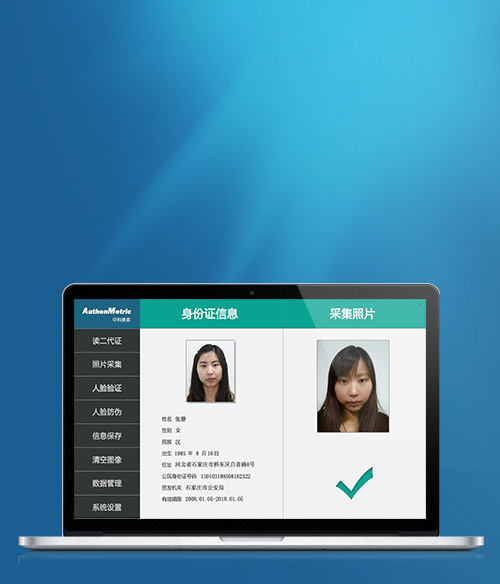
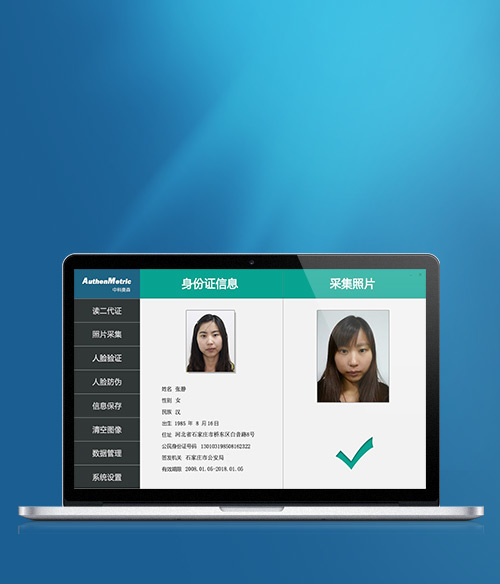
更新资源 微调

Changed region(s): [[0.03, 0.4315, 0.99, 0.9555]]

diff --git a/assets/style/index-page.css b/assets/style/index-page.css
@@ -66,7 +66,7 @@ section#cover {
   section#cover .cover-text-right{
     position: absolute;
     right: 10%;
-    top: 27%;
+    top: 44%;
   }
   section#cover .cover-text-left{
     position: absolute;
@@ -97,7 +97,7 @@ section#cover h3 {
 .slick-dots-button{
   width:50px;
   height:2px;
-  background-color: #808080;
+  background-color: #aaaaaa;
   opacity: 0.4;
 }
 
